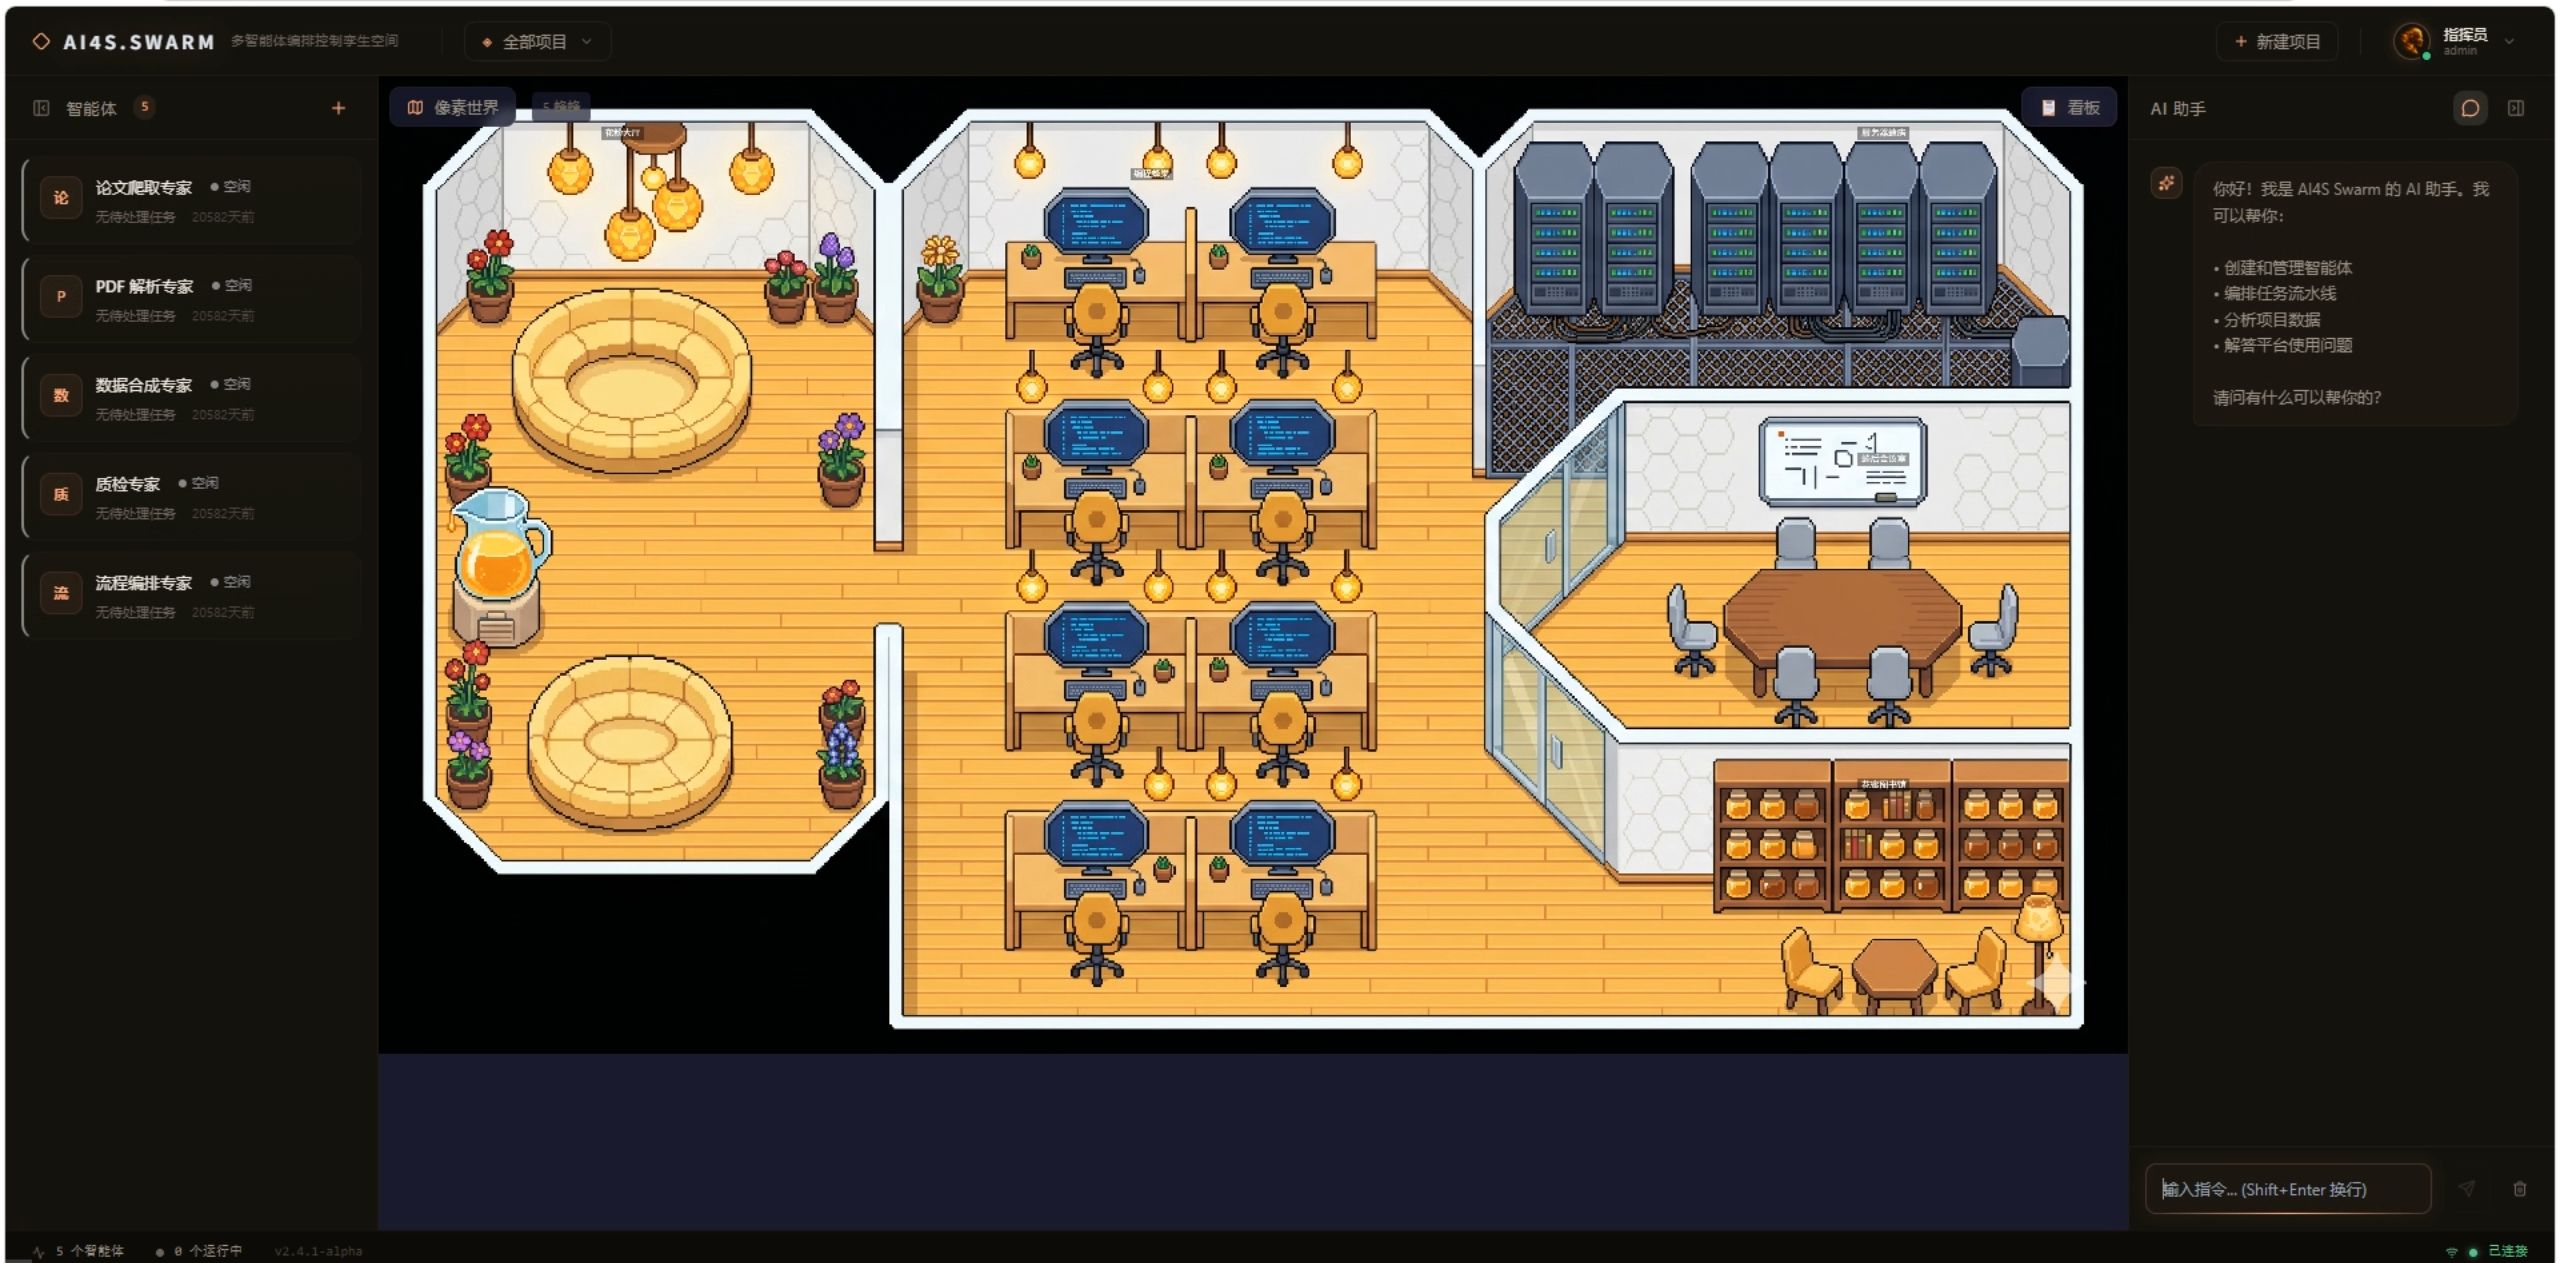
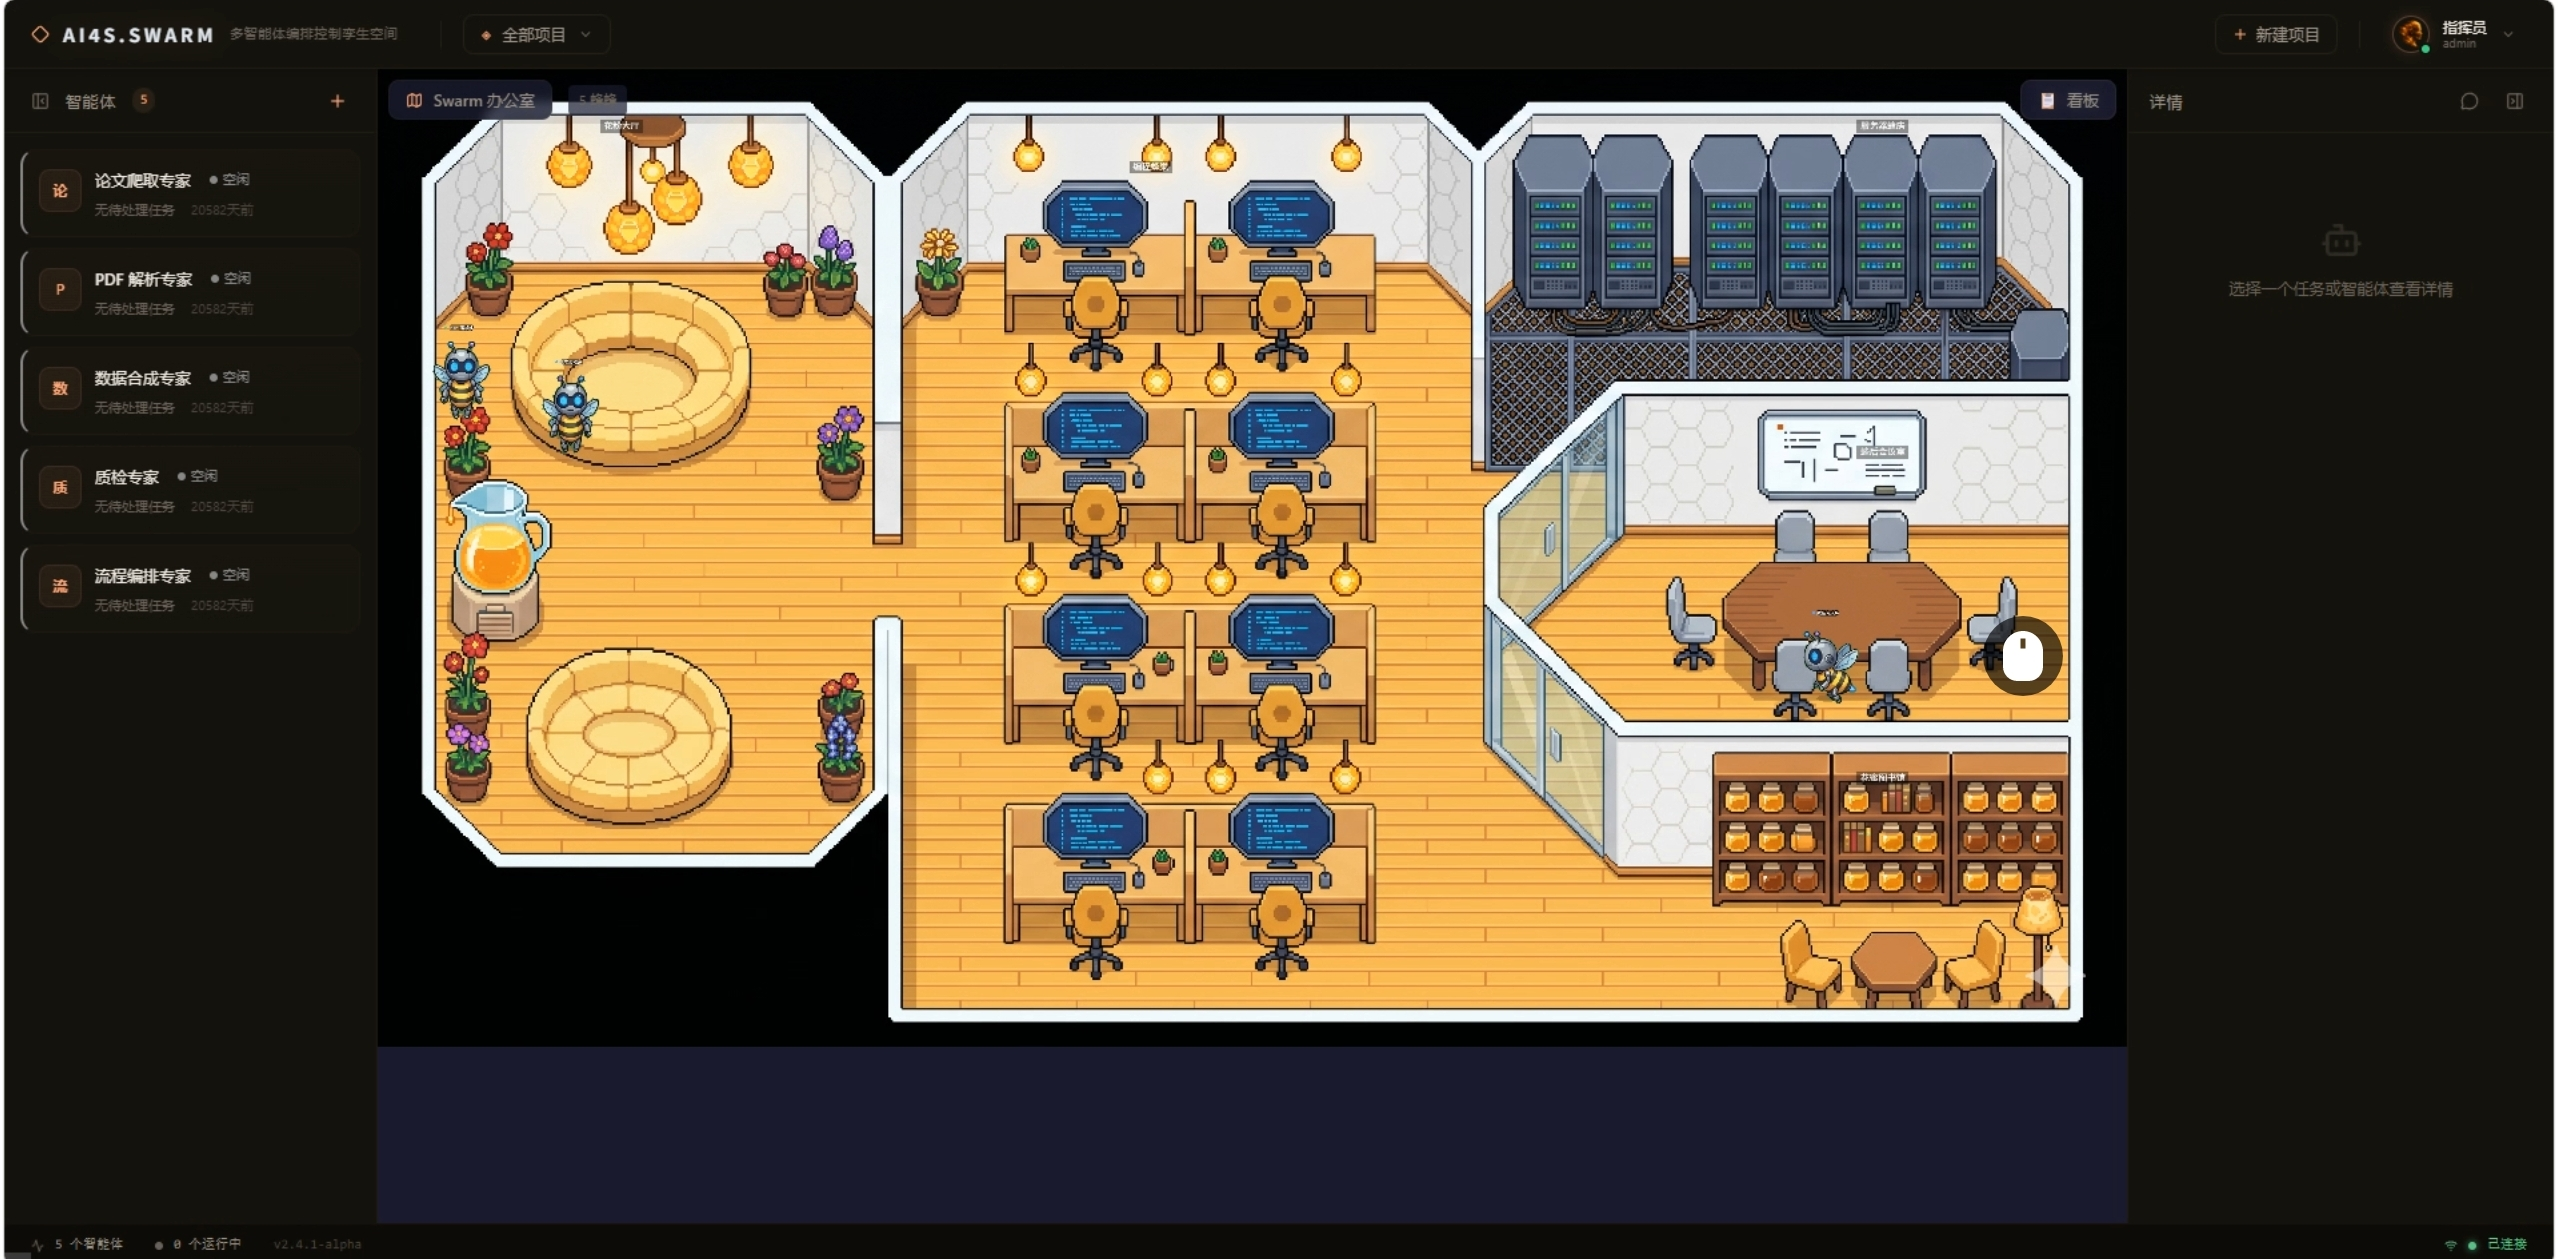
feat: Swarm 办公室 3 只蜜蜂随机漫步 + 角色放大 + 更新大厅截图

diff --git a/web/src/pixel/scenes/WorldScene.ts b/web/src/pixel/scenes/WorldScene.ts
@@ -18,12 +18,16 @@ const SPRITE_KEYS = [
 export class WorldScene extends Phaser.Scene {
   private cameraController!: CameraController;
   private worldConfig!: WorldConfig;
+  private mapManager!: MapManager;
 
   /** Agent sprites indexed by agentId */
   private agents: Map<string, AgentSprite> = new Map();
 
   /** Unsubscribe functions for event bus */
   private cleanups: Array<() => void> = [];
+
+  /** Demo wandering timers keyed by agentId */
+  private wanderTimers: Map<string, Phaser.Time.TimerEvent> = new Map();
 
   constructor() {
     super({ key: "WorldScene" });
@@ -39,6 +43,7 @@ export class WorldScene extends Phaser.Scene {
     // MapManager parses collision grid from collision.png texture.
     // Stored in scene data for access by agents during movement / pathfinding.
     const mapManager = new MapManager(this, this.worldConfig);
+    this.mapManager = mapManager;
     this.data.set("mapManager", mapManager);
     this.cameraController = new CameraController(this);
 
@@ -67,6 +72,9 @@ export class WorldScene extends Phaser.Scene {
 
     // --- Notify React that the scene is ready ---
     worldEventBus.emit("scene:ready", undefined);
+
+    // --- Spawn demo bees that wander around ---
+    this.spawnDemoBees();
   }
 
   // ---------------------------------------------------------------------------
@@ -155,6 +163,105 @@ export class WorldScene extends Phaser.Scene {
         repeat: -1,
       });
     }
+  }
+
+  // ---------------------------------------------------------------------------
+  // Demo bees — random wandering for default scene
+  // ---------------------------------------------------------------------------
+
+  private readonly DEMO_BEES = [
+    {
+      id: "demo-1",
+      name: "论文爬取蜂",
+      sprite: "character-002",
+      tint: 0xffffff,
+    },
+    {
+      id: "demo-2",
+      name: "PDF 解析蜂",
+      sprite: "character-002",
+      tint: 0x99ccff,
+    },
+    {
+      id: "demo-3",
+      name: "数据合成蜂",
+      sprite: "character-002",
+      tint: 0xffcc99,
+    },
+  ];
+
+  /** All walkable area bounding boxes for random target picking */
+  private getWalkableAreas(): { x: number; y: number; w: number; h: number }[] {
+    return this.worldConfig.areas.map(a => ({
+      x: a.x + 32,
+      y: a.y + 48,
+      w: a.width - 64,
+      h: a.height - 80,
+    }));
+  }
+
+  /** Pick a random walkable position inside one of the areas */
+  private randomWalkablePosition(): { x: number; y: number } {
+    const areas = this.getWalkableAreas();
+    // Pick a random area
+    const area = areas[Math.floor(Math.random() * areas.length)];
+    return {
+      x: area.x + Math.random() * area.w,
+      y: area.y + Math.random() * area.h,
+    };
+  }
+
+  private spawnDemoBees(): void {
+    for (const bee of this.DEMO_BEES) {
+      const pos = this.randomWalkablePosition();
+      const sprite = new AgentSprite(
+        this,
+        bee.id,
+        bee.name,
+        pos.x,
+        pos.y,
+        bee.sprite
+      );
+      sprite.setDepth(10);
+      if (bee.tint !== 0xffffff) {
+        sprite.setTint(bee.tint);
+      }
+      sprite.setVisualState("idle");
+      this.agents.set(bee.id, sprite);
+
+      // Start wandering after a short random delay
+      const initialDelay = 500 + Math.random() * 3000;
+      this.time.delayedCall(initialDelay, () => this.wanderTo(bee.id));
+    }
+  }
+
+  /** Send a demo bee to a random position; on arrival, wait then wander again */
+  private wanderTo(agentId: string): void {
+    const sprite = this.agents.get(agentId);
+    if (!sprite) return;
+
+    const target = this.randomWalkablePosition();
+    sprite.navigateTo(target.x, target.y);
+
+    // Set a timer to check arrival and trigger next wander
+    // We poll because we don't have an "arrived" callback
+    const checkArrival = () => {
+      const s = this.agents.get(agentId);
+      if (!s) return;
+      if (!s.isMoving) {
+        // Arrived — wait 1-4 seconds then wander again
+        const wait = 1000 + Math.random() * 3000;
+        const timer = this.time.delayedCall(wait, () => this.wanderTo(agentId));
+        this.wanderTimers.set(agentId, timer);
+      } else {
+        // Still moving, check again in 200ms
+        const timer = this.time.delayedCall(200, checkArrival);
+        this.wanderTimers.set(agentId, timer);
+      }
+    };
+
+    const timer = this.time.delayedCall(300, checkArrival);
+    this.wanderTimers.set(agentId, timer);
   }
 
   // ---------------------------------------------------------------------------
@@ -326,6 +433,10 @@ export class WorldScene extends Phaser.Scene {
       cleanup();
     }
     this.cleanups = [];
+    for (const timer of this.wanderTimers.values()) {
+      timer.destroy();
+    }
+    this.wanderTimers.clear();
     this.cameraController.destroy();
 
     for (const agent of this.agents.values()) {

diff --git a/web/src/pixel/objects/AgentSprite.ts b/web/src/pixel/objects/AgentSprite.ts
@@ -27,7 +27,7 @@ const STATUS_DOT_COLORS: Record<AgentVisualState, number> = {
 };
 
 /** 容器整体缩放（让角色在 32px tile 世界中大小合适） */
-const CONTAINER_SCALE = 0.35;
+const CONTAINER_SCALE = 0.7;
 
 /** 移动速度：像素/秒 */
 const DEFAULT_MOVE_SPEED = 120;
@@ -412,6 +412,11 @@ export class AgentSprite extends Phaser.GameObjects.Container {
     const currentState = this._visualState;
     this._visualState = "idle"; // 重置以强制刷新
     this.setVisualState(currentState);
+  }
+
+  /** Apply a tint color to the body sprite for visual differentiation. */
+  setTint(color: number): void {
+    this.bodySprite.setTint(color);
   }
 
   // ============================================================
